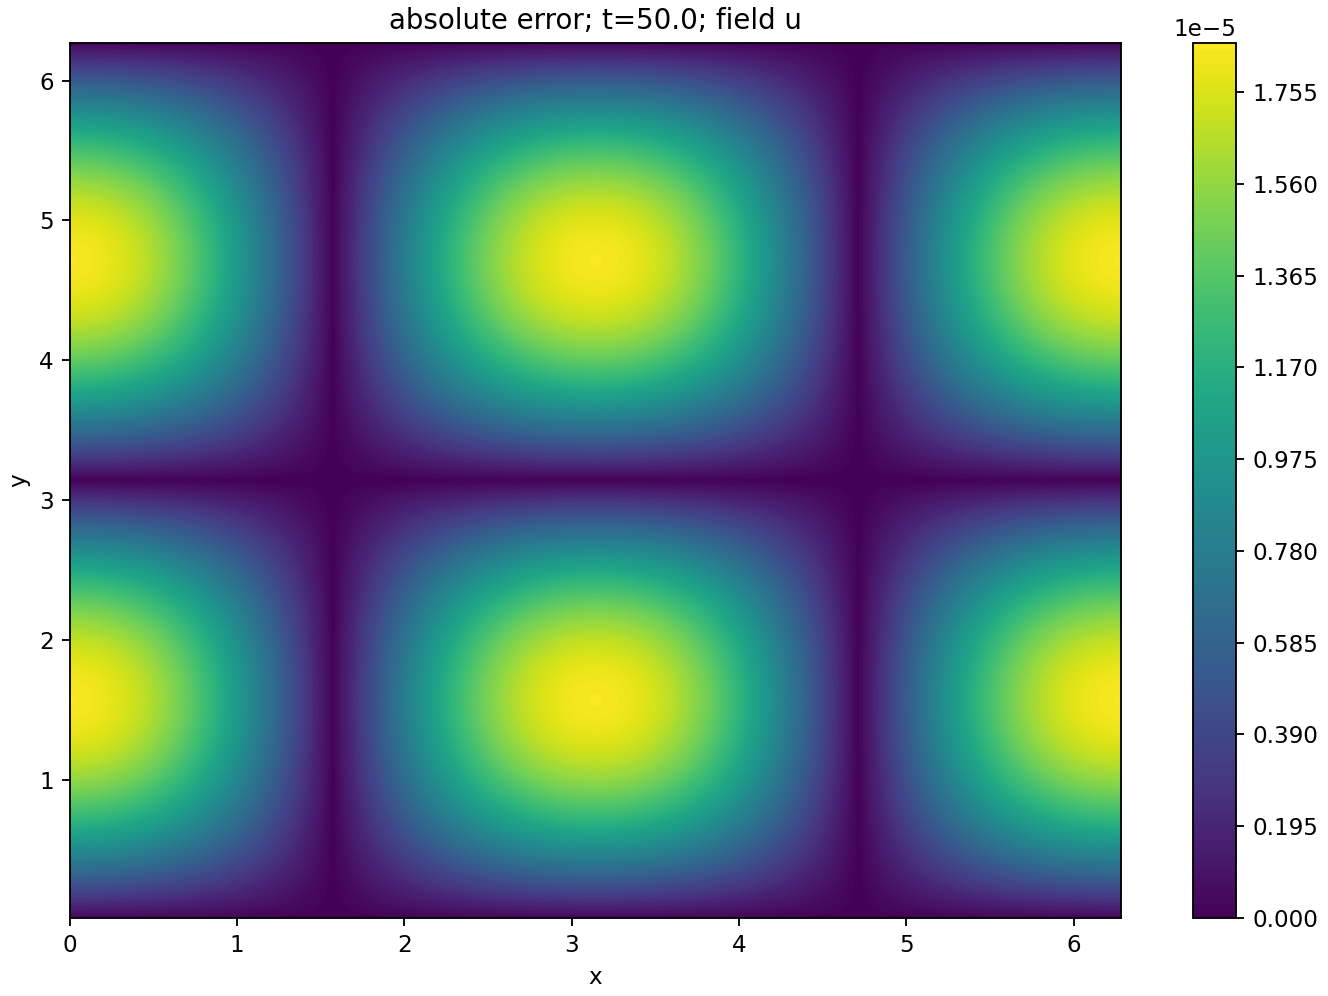
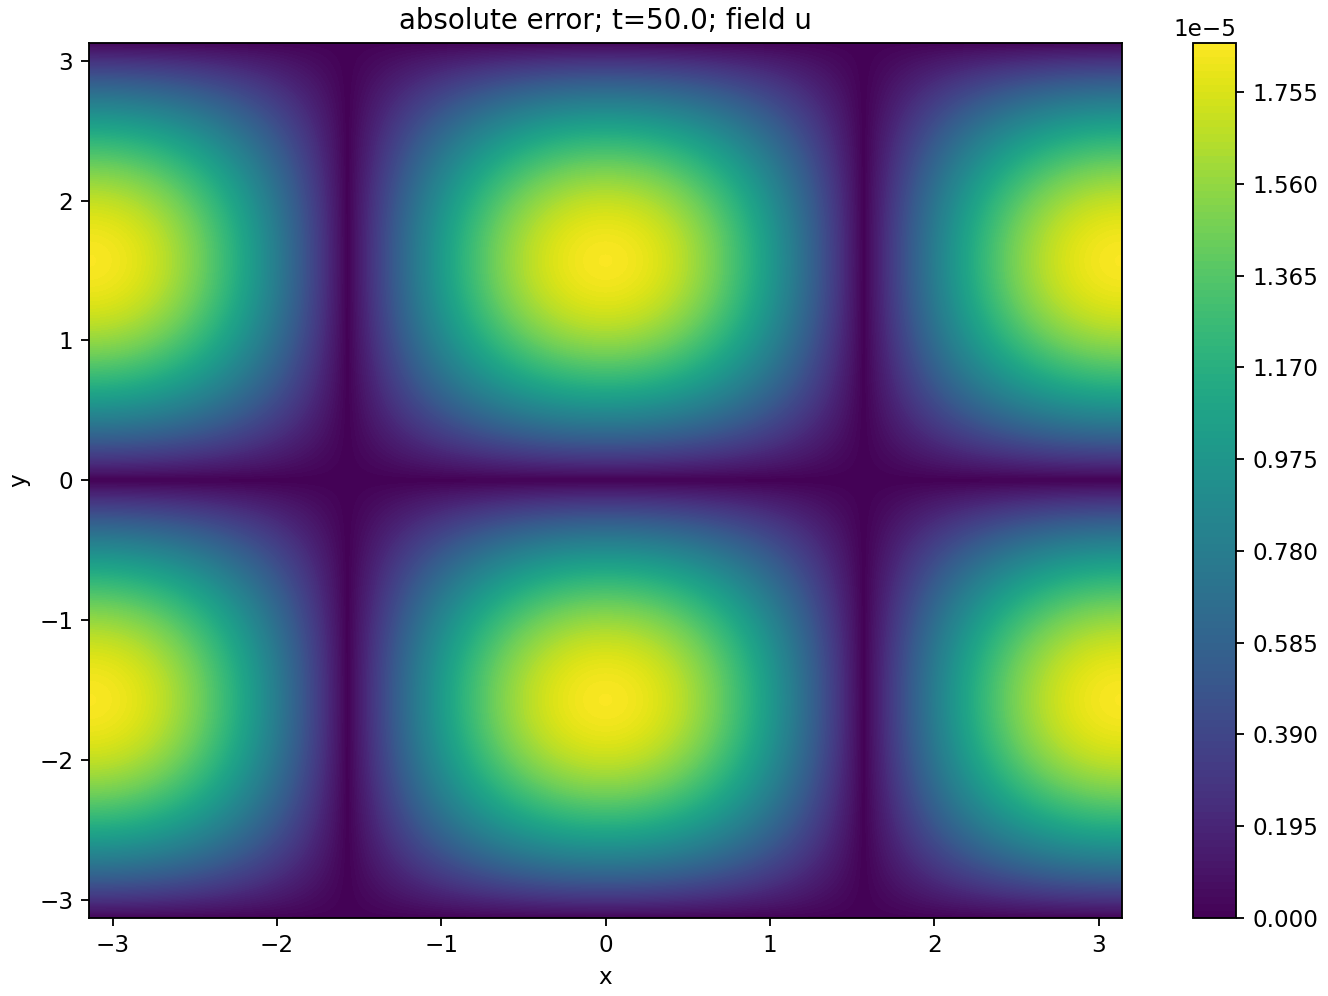
tgv 2d re100: change domain range and improved post-processing

diff --git a/examples/navierstokes/taylorgreenvortex2dRe100/postprocessing.py b/examples/navierstokes/taylorgreenvortex2dRe100/postprocessing.py
@@ -17,34 +17,35 @@ import h5py
 from matplotlib import pyplot
 
 
-def get_exact_solution(x, y, t, nu, rho, field):
+def get_exact_solution(x, y, t, nu, rho, field, L=1, V0=1.):
     """Exact solution of 2D Taylor-Green vortex.
     """
     if field == "u":
-        return numpy.cos(x) * numpy.sin(y) * numpy.exp(-2.*nu*t)
+        return V0 * numpy.cos(x/L) * numpy.sin(y/L) * numpy.exp(-2.*nu*t/L**2)
     elif field == "v":
-        return - numpy.sin(x) * numpy.cos(y) * numpy.exp(-2.*nu*t)
+        return - V0 * numpy.sin(x/L) * numpy.cos(y/L) * numpy.exp(-2.*nu*t/L**2)
     elif field == "p":
-        return - rho * numpy.exp(-4.*nu*t) * (numpy.cos(2.*x) + numpy.cos(2.*y)) / 4.
+        return - rho * V0**2 * numpy.exp(-4.*nu*t/L**2) * (numpy.cos(2.*x/L) + numpy.cos(2.*y/L)) / 4.
     elif field == "wz":
-        return - 2. * numpy.cos(x) * numpy.cos(y) * numpy.exp(-2.*nu*t)
+        return - 2. * V0 * numpy.cos(x/L) * numpy.cos(y/L) * numpy.exp(-2.*nu*t/L**2) / L
     elif field == "KE":  # kinetic energy
-        return rho * numpy.pi * numpy.pi * numpy.exp(-4.*nu*t)
+        return numpy.pi**2 * L**2 * V0**2 * rho * numpy.exp(-4.*nu*t/L**2)
     elif field == "KEDR":  # kinetic energy dissipation rate
-        return - 4. * nu * rho * numpy.pi * numpy.pi * numpy.exp(-4.*nu*t)
+        return 4. * numpy.pi**2 * V0**2 * nu * rho * numpy.exp(-4.*nu*t/L**2)
+    elif field == "enstrophy":  # enstrophy
+        return 2. * numpy.pi**2 * V0**2 * nu * rho * numpy.exp(-4.*nu*t/L**2)
     else:
         raise ValueError
 
 
-def calculate_ke(u, v):
-    """Simle linear interpolation + summation to calculate total kinetic energy.
+def calculate_mean_kinetic_energy(u, v):
+    """Simle linear interpolation + summation to calculate volumetrically averaged kinetic energy.
     """
     uintrp = (u[:, 1:] + u[:, :-1]) / 2.
     vintrp = (v[1:, :] + v[:-1, :]) / 2.
 
     ny, nx = uintrp.shape
-    area = 4 * numpy.pi * numpy.pi
-    ke = area * numpy.sum(uintrp**2 + vintrp**2) / ny / nx / 2.
+    ke = numpy.sum(uintrp**2 + vintrp**2) / ny / nx / 2.
 
     return ke
 
@@ -57,31 +58,26 @@ def plot_kinetic_energy(workdir, snapshots, nu, rho):
     simke = []
     for time, vals in snapshots.items():
         simtimes.append(time)
-        simke.append(calculate_ke(vals["pred"]["u"], vals["pred"]["v"]))
+        simke.append(calculate_mean_kinetic_energy(vals["pred"]["u"], vals["pred"]["v"]))
 
     times = numpy.linspace(0., 100., 101)
     ke = get_exact_solution(0, 0, times, nu, rho, "KE")  # x, y not important for calc. KE
-    kedr = get_exact_solution(0, 0, times, nu, rho, "KEDR")  # x, y not important for calc. KEDR
+    ke /= (4 * numpy.pi * numpy.pi)  # volumetric average
+
+    # normalization
+    simke = [val / ke[0] for val in simke]  # must before the next line, otherwise ke[0] is gone
+    ke /= ke[0]
 
     workdir.joinpath("figures").mkdir(exist_ok=True)
 
     pyplot.figure(figsize=(8, 6), dpi=166, constrained_layout=True)
     pyplot.plot(times, ke, "k-", lw=2, label="Analytical solution")
-    pyplot.scatter(simtimes, simke, 80, "tab:red", marker="x", label="Simulation")
+    pyplot.scatter(simtimes, simke, 120, "tab:red", marker="x", label="Simulation")
     pyplot.xlabel("Time (seconds)")
-    pyplot.ylabel(r"Kinetic energy ($kg-m^2 / s^2$)")
+    pyplot.ylabel(r"Kinetic energy (normalized)")
     pyplot.title("Total kinetic energy v.s. time")
     pyplot.legend(loc=0)
     pyplot.savefig(workdir.joinpath("figures", f"kinetic-energy.png"), dpi=166)
-    pyplot.close("all")
-
-    pyplot.figure(figsize=(8, 6), dpi=166, constrained_layout=True)
-    pyplot.plot(times, kedr, "k-", lw=3, label="Analytical solution")
-    pyplot.xlabel("Time (seconds)")
-    pyplot.ylabel(r"Kinetic energy dissipation rate ($kg-m^2 / s^3$)")
-    pyplot.title("Kinetic energy dissipation rate v.s. time")
-    pyplot.legend(loc=0)
-    pyplot.savefig(workdir.joinpath("figures", f"kinetic-energy-dissipation-rate.png"), dpi=166)
     pyplot.close("all")
 
 
@@ -154,17 +150,17 @@ def worker(rank, inputs, outputs, kwargs):
 
     while True:
         try:
-            filename = inputs.get(False)  # w/ False, it returns even not getting anything
+            filename = inputs.get(True, 2)
         except multiprocessing.queues.Empty:
-            print(f"[Rank {rank}] has no more work to do.")
-            inputs.close()
-            outputs.close()
-            return
+            print(f"[Rank {rank}] no more work to do, going home")
+            break
 
         print(f"[Rank {rank}] processing {filename.name}.")
         outcome = process_single_file(filename=filename, **kwargs)
         outputs.put(outcome)
         print(f"[Rank {rank}] done processing {filename.name}.")
+
+        inputs.task_done()
 
 
 if __name__ == "__main__":
@@ -184,8 +180,8 @@ if __name__ == "__main__":
         y = {key: dset[f"{key}/y"][...] for key in fields}
 
     # padding the nodes not used in simulation due to periodic BC
-    x["u"] = numpy.concatenate((numpy.zeros(1, float), x["u"]))
-    y["v"] = numpy.concatenate((numpy.zeros(1, float), y["v"]))
+    x["u"] = numpy.concatenate((numpy.full((1,), -numpy.pi, float), x["u"]))
+    y["v"] = numpy.concatenate((numpy.full((1,), -numpy.pi, float), y["v"]))
 
     # convert gridlines to mesh grids
     xy = {key: numpy.meshgrid(x[key], y[key]) for key in fields}
@@ -200,7 +196,7 @@ if __name__ == "__main__":
     ]
 
     # prepare work loads
-    works = multiprocessing.Queue()
+    works = multiprocessing.JoinableQueue()
     for filename in filenames:
         works.put(filename)
 
@@ -218,6 +214,9 @@ if __name__ == "__main__":
         proc.start()
         procs.append(proc)
 
+    # block until all works in `works` are done (i.e., `works` is empty)
+    works.join()
+
     # get result from outcome queue to EMPTY the queue
     # workers won't terminate unitil involved queues (works & outcomes) are empty
     results = {}
@@ -227,10 +226,6 @@ if __name__ == "__main__":
         results[time] = result
     else:
         assert outcomes.empty()
-
-    # block the main program until all workser are done and terminated
-    for proc in procs:
-        proc.join()
 
     # plot kinetic energy
     plot_kinetic_energy(root, results, cfg["flow"]["nu"], 1.0)
